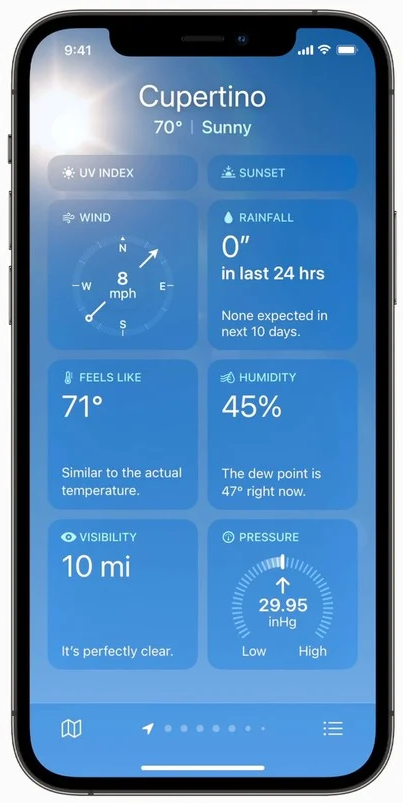
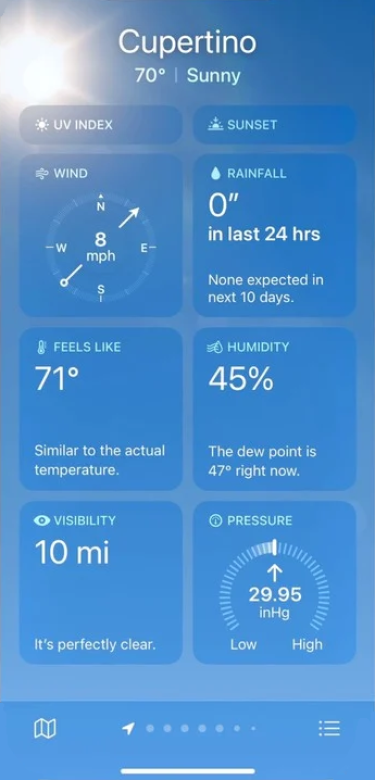
Add files via upload

diff --git a/index1.html b/index1.html
@@ -1,0 +1,79 @@
+<!DOCTYPE html>
+
+<html lang="en" xmlns="http://www.w3.org/1999/xhtml">
+<head>
+    <meta charset="utf-8" name="viewport" content="width=device-width, initial-scale=1" />
+    <link href="https://unpkg.com/tailwindcss@^2/dist/tailwind.min.css" rel="stylesheet">
+    <link href="css1.css" rel="stylesheet">
+    <title></title>
+</head>
+<body class="background">
+    <div class="mt-4 text-white text-center text-4xl">Cupertino</div>
+    <div class="text-white text-center text-2xl">70° | Sunny</div>
+    <div class="text-center">
+        <div class="mt-4 inline-block">
+            <div class="flex">
+                <div class="text-white text-left bg-blue-400 rounded-2xl w-40 h-9 mb-3">
+                    <div class="align-middle leading-7 text-blue-200 ml-6 pt-1 text-sm">UV INDEX</div>
+                </div>
+                <div class="text-white text-left bg-blue-400 rounded-2xl w-40 h-9 ml-4 mb-3">
+                    <div class="align-middle leading-7 text-blue-200 ml-6 pt-1 text-sm">SUNSET</div>
+                </div>
+            </div>
+        </div>
+    </div>
+    <div class="text-center">
+        <div class="inline-block">
+            <div class="flex">
+                <div class="text-white text-left bg-blue-400 rounded-2xl w-40 h-40 mb-3">
+                    <div class="align-middle leading-7 text-blue-200 ml-6 pt-1 text-sm">WIND</div>
+                </div>
+                <div class="text-white text-left bg-blue-400 rounded-2xl w-40 h-40 ml-4 mb-3">
+                    <div class="align-middle leading-7 text-blue-200 ml-6 pt-1 text-sm">RAINFALL</div>
+                    <div class="text-4xl ml-4 -mb-1 -mt-2">0"</div>
+                    <div class="text-xl ml-4">in last 24 hrs</div>
+                    <div class="text-sm pt-6 ml-4 mr-4">None expected in next 10 days</div>
+                </div>
+            </div>
+        </div>
+    </div>
+    <div class="text-center">
+        <div class="inline-block">
+            <div class="flex">
+                <div class="text-white text-left bg-blue-400 rounded-2xl w-40 h-40 mb-3">
+                    <div class="align-middle leading-7 text-blue-200 ml-6 pt-1 text-sm">FEELS LIKE</div>
+                    <div class="text-4xl ml-4 -mb-1 -mt-2">71°</div>
+                    <div class="text-sm pt-12 ml-4 mr-4">Similar to the actual temperature.</div>
+                </div>
+                <div class="text-white text-left bg-blue-400 rounded-2xl w-40 h-40 ml-4 mb-3">
+                    <div class="align-middle leading-7 text-blue-200 ml-6 pt-1 text-sm">HUMIDITY</div>
+                    <div class="text-4xl ml-4 -mb-1 -mt-2">45%</div>
+                    <div class="text-sm pt-12 ml-4 mr-4">The dew point is 47° right now.</div>
+                </div>
+            </div>
+        </div>
+    </div>
+    <div class="text-center">
+        <div class="inline-block">
+            <div class="flex"> 
+                <div class="text-white text-left bg-blue-400 rounded-2xl w-40 h-40 mb-3">
+                    <div class="align-middle leading-7 text-blue-200 ml-6 pt-1 text-sm">VISIBILITY</div>
+                    <div class="text-4xl ml-4 -mb-1 -mt-2">10 mi</div>
+                    <div class="text-sm pt-16 ml-4 mr-4">It's perfectly clear.</div>
+                </div>
+                <div class="text-white text-left bg-blue-400 rounded-2xl w-40 h-40 ml-4 mb-3">
+                    <div class="align-middle leading-7 text-blue-200 ml-6 pt-1 text-sm">PRESSURE</div>
+                </div>
+            </div>
+        </div>
+    </div>
+    <div class="sticky bottom-0">
+        <div class="bg-blue-400 text-center h-12 pt-2">
+            <div class="align-middle">
+                <span class="inline-block"><a href="index.html">•</a></span>
+                <span class="inline-block text-2xl leading-5">•</span>
+            </div>
+        </div>
+    </div>
+</body>
+</html>

diff --git a/index.html b/index.html
@@ -14,7 +14,7 @@
     <div class="text-2xl text-white text-center mb-7">H:76° L:51°</div>
     <div class="text-center mb-3">
         <div class="inline-block bg-blue-400 rounded-2xl text-white p-2.5 max-w-310">
-            <div class="border-b border-blue-300 pb-3 mb-1 block text-left">Sunny conditions will continue all day.</div>
+            <div class="border-b border-blue-300 text-blue-200 pb-3 mb-1 block text-left">Sunny conditions will continue all day.</div>
             <div class="flex overflow-y-hidden">
                 <div class="pr-5 flex flex-col text-center">Now <img width="30px" height="30px" src="sun-icon-256.png"> <span class="text-2xl">70°</span></div>
                 <div class="pr-5 flex flex-col text-center">10am <img width="30px" height="30px" src="sun-icon-256.png"> <span class="text-2xl">70°</span></div>
@@ -28,7 +28,7 @@
     </div>
     <div class="text-center">
         <div class="inline-block bg-blue-400 rounded-2xl text-white p-2.5 min-w-310">
-            <div class="text-1x1 border-b border-blue-300 pb-2 mb-2 block text-left">10-DAY FORECAST</div>
+            <div class="text-1x1 border-b border-blue-300 text-blue-200 pb-2 mb-2 block text-left">10-DAY FORECAST</div>
             <div class="text-2xl border-b border-blue-300 pb-2 mb-2 flex">
                 <div class="text-left min-w-82">Today</div> 
                 <span class="pr-5"><img width="30px" height="30px" src="sun-icon-256.png"></span> 
@@ -78,8 +78,11 @@
         </div>
     </div>
     <div class="sticky bottom-0">
-        <div class="bg-blue-400 text-center h-7">
-            ••••••••••••••••••••••••
+        <div class="bg-blue-400 text-center h-12 pt-2">
+            <div class="align-middle">
+                <span class="inline-block text-2xl leading-5">•</span>
+                <span class="inline-block"><a href="index1.html">•</a></span>
+            </div>
         </div>
     </div>
 </body>

diff --git a/css1.css b/css1.css
@@ -1,0 +1,3 @@
+.background{
+    background-image: url(new-weather-2.png);
+}
